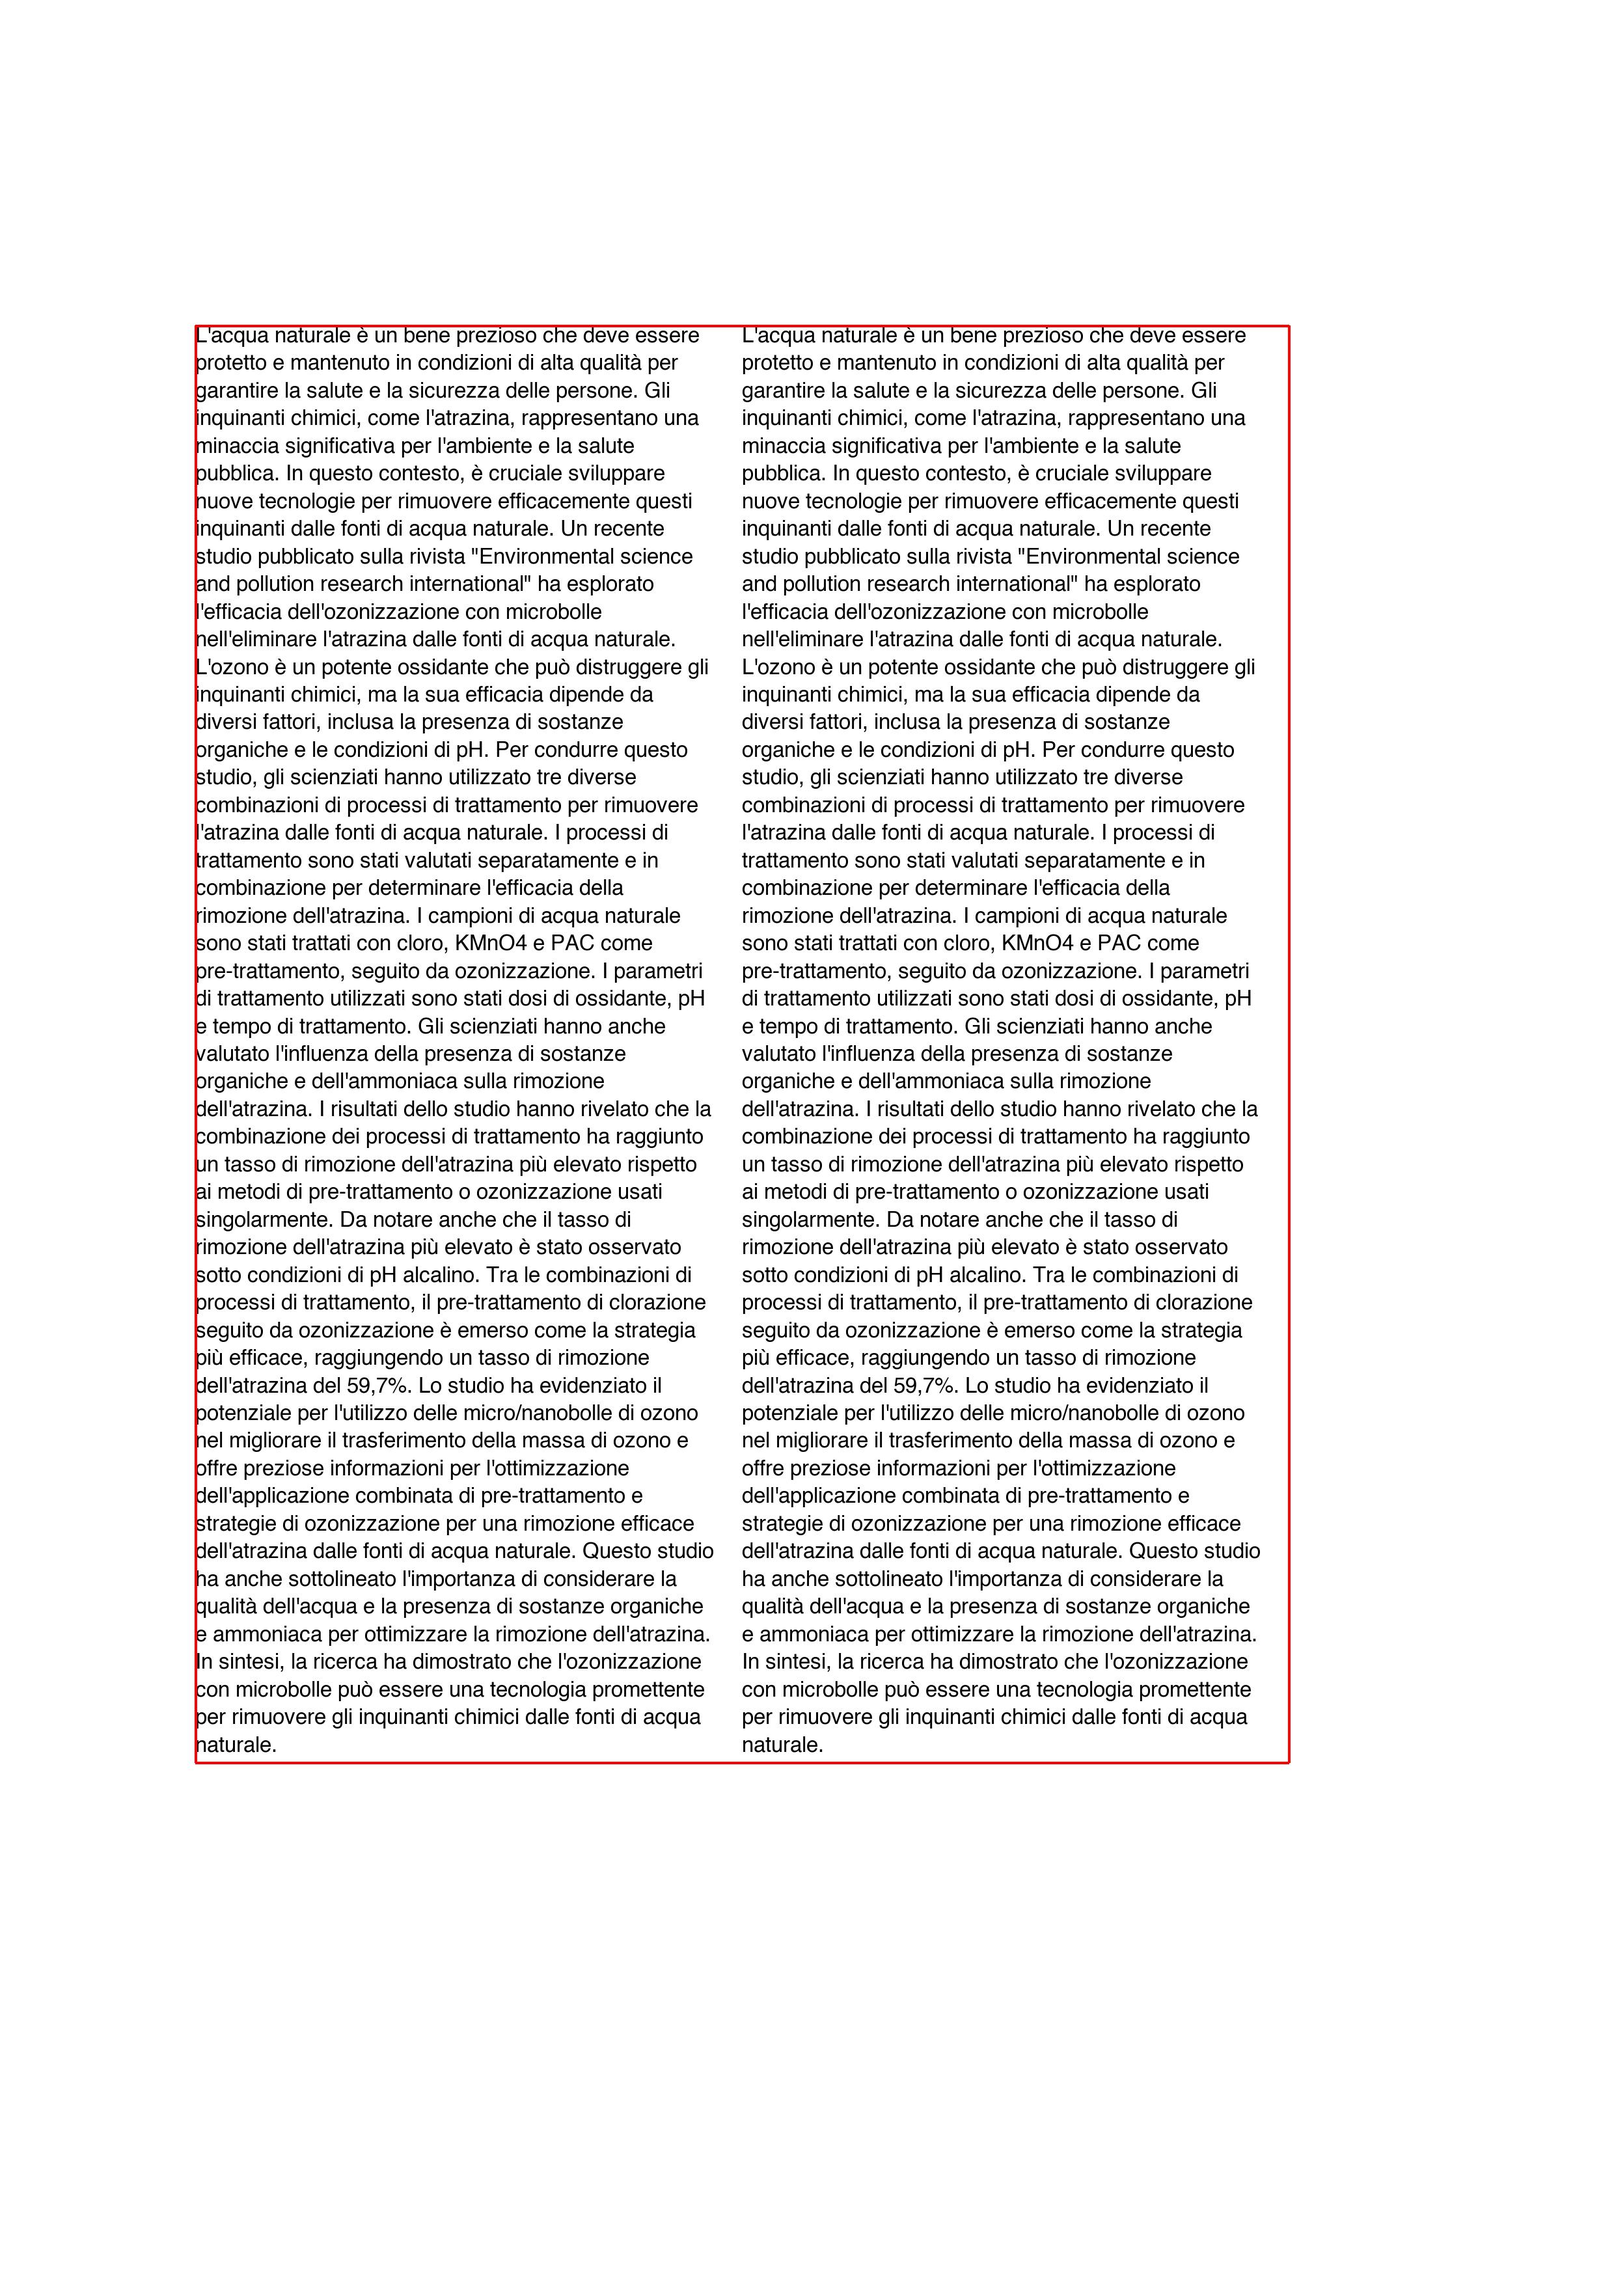
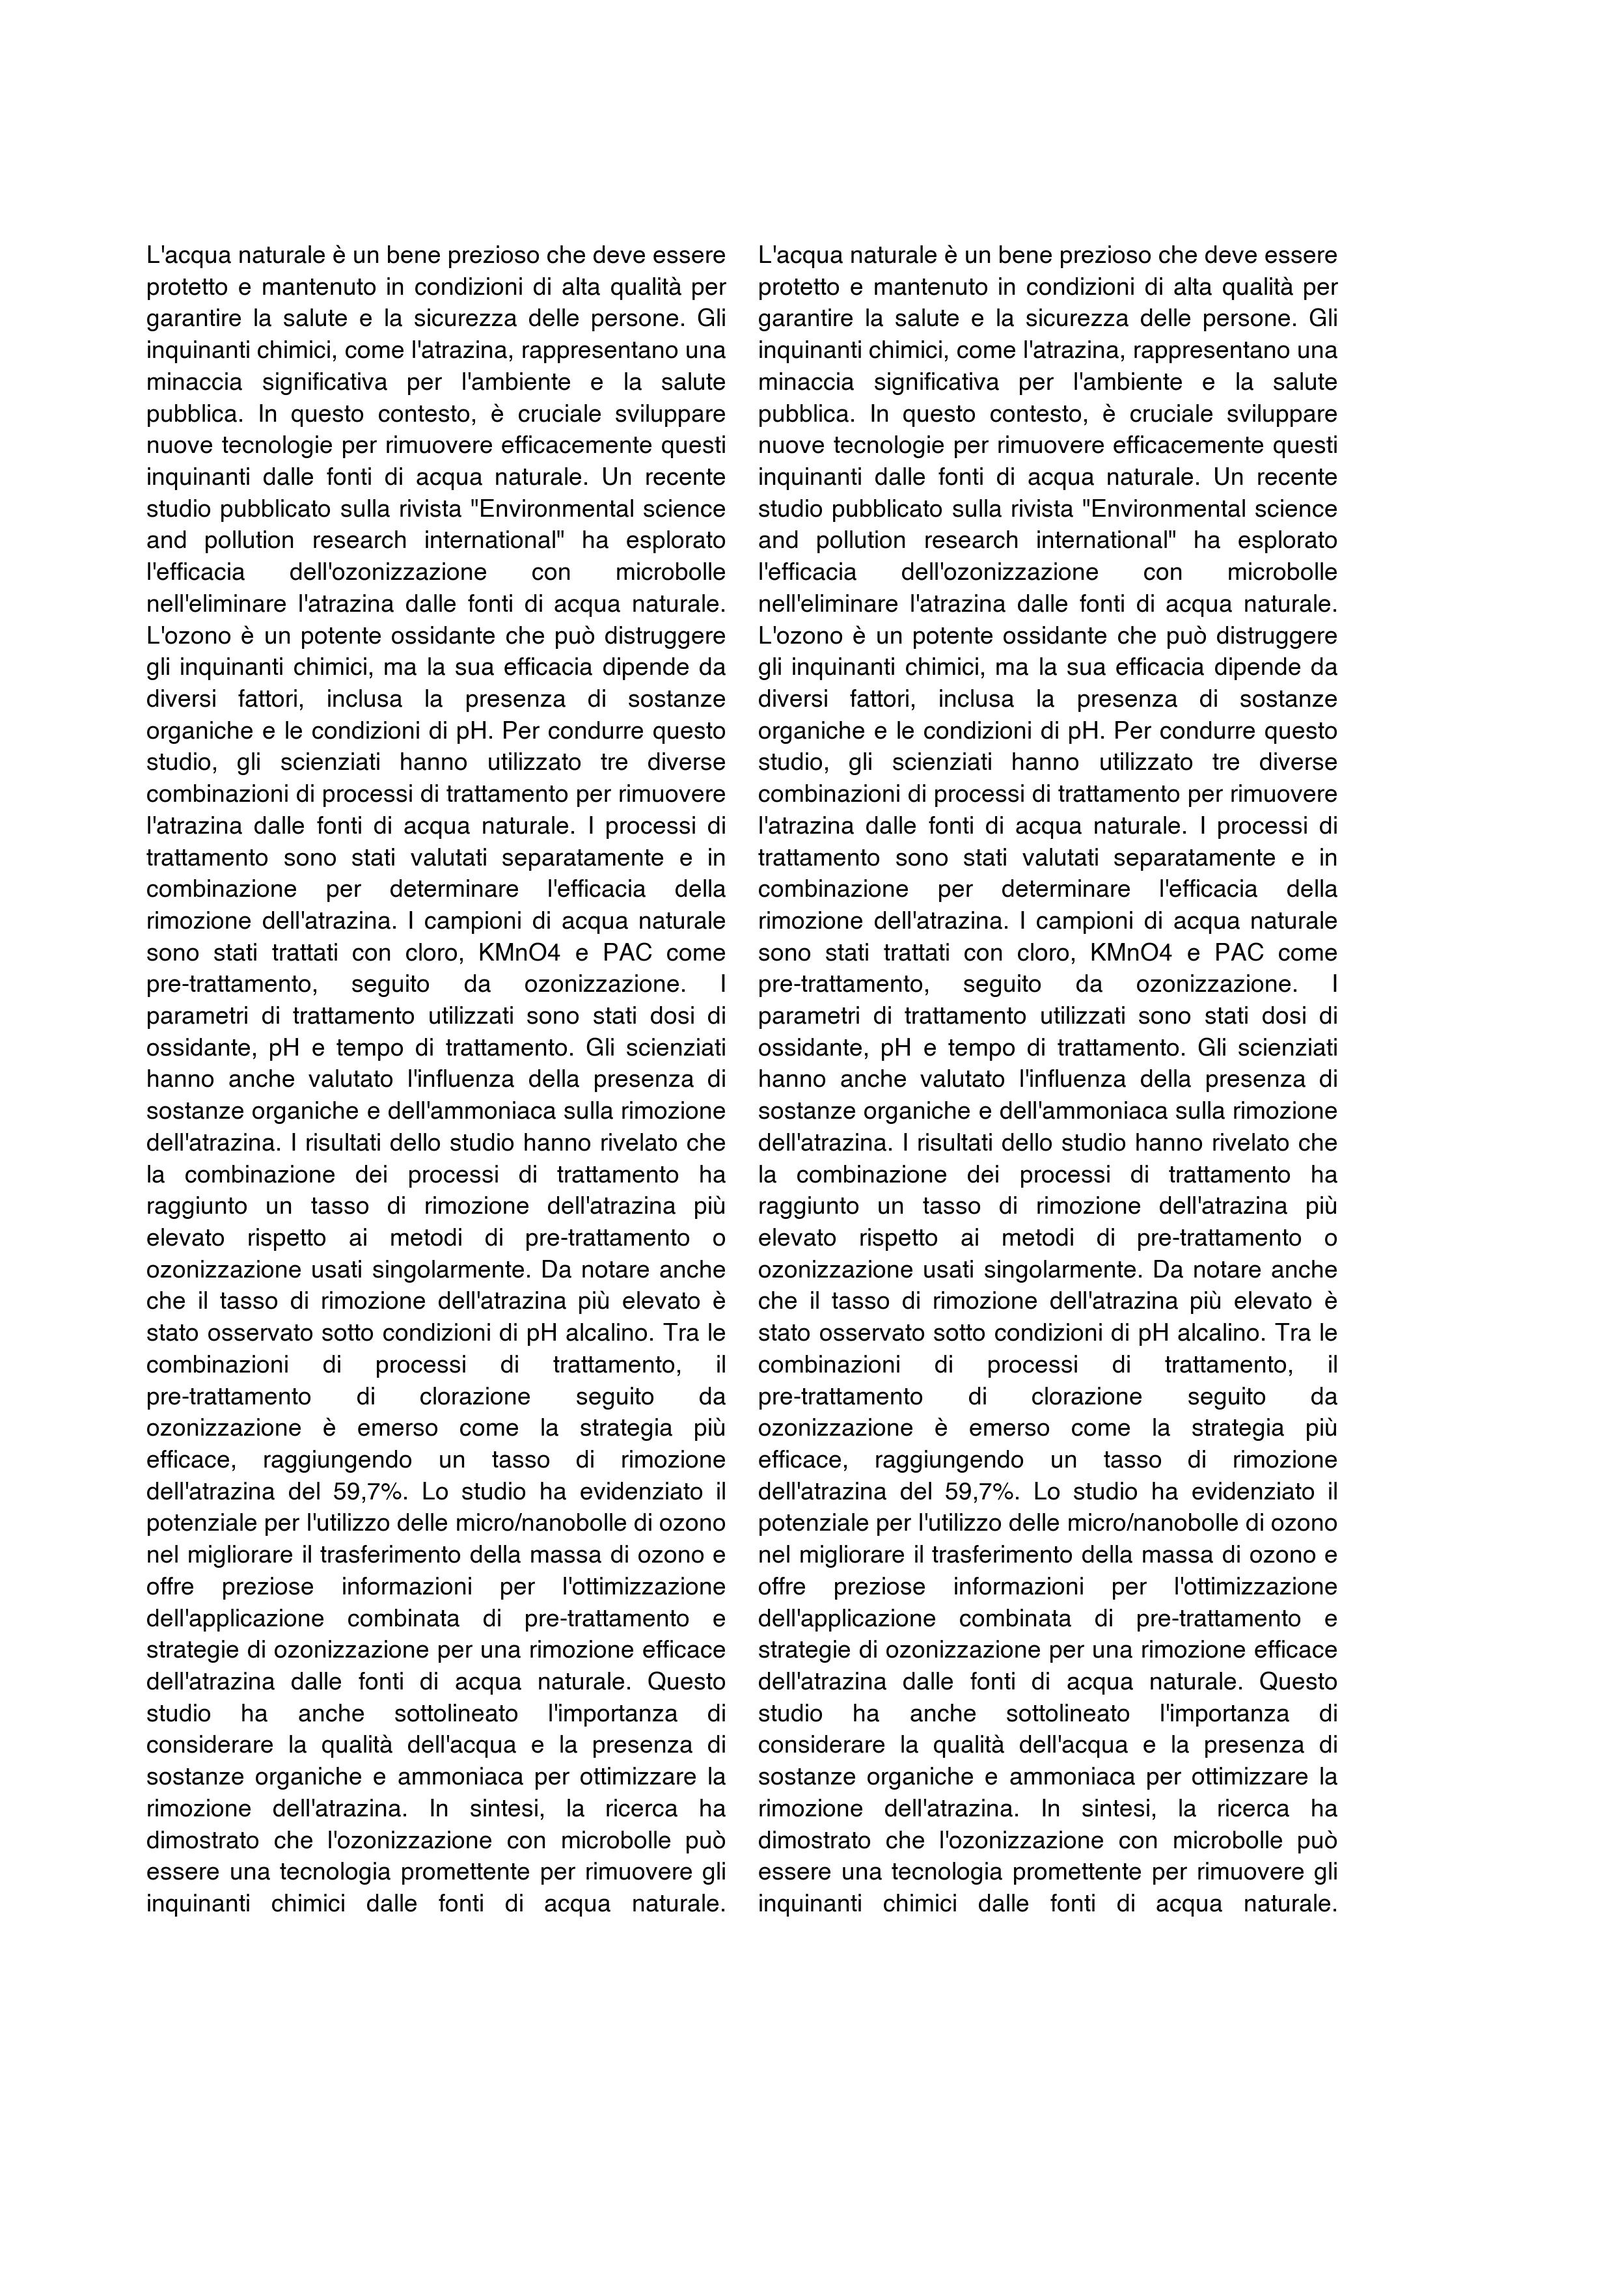
'

Changed region(s): [[0.0931, 0.0932, 0.8383, 0.8389]]

diff --git a/magazine-layout/main.py b/magazine-layout/main.py
@@ -6,10 +6,12 @@ fonts_folderpath = f'{vault_folderpath}/fonts'
 a4_w = 2480
 a4_h = 3508
 
-ml = 300
-mt = 500
-mr = 500
-mb = 800
+margin_mul = 0.75
+
+ml = 300*margin_mul
+mt = 500*margin_mul
+mr = 500*margin_mul
+mb = 800*margin_mul
 
 text_area_x1 = ml
 text_area_y1 = mt
@@ -47,6 +49,11 @@ if 0:
         draw.line((text_area_x1, text_area_y1 + row_h*i, text_area_x2, text_area_y1 + row_h*i), fill='#00ffff', width=4)
         draw.line((text_area_x1, text_area_y1 + row_h*i - line_h, text_area_x2, text_area_y1 + row_h*i - line_h), fill='#00ffff', width=4)
 
+    draw.line((text_area_x1, text_area_y1, text_area_x2, text_area_y1), fill='#ff0000', width=4)
+    draw.line((text_area_x1, text_area_y2, text_area_x2, text_area_y2), fill='#ff0000', width=4)
+    draw.line((text_area_x1, text_area_y1, text_area_x1, text_area_y2), fill='#ff0000', width=4)
+    draw.line((text_area_x2, text_area_y1, text_area_x2, text_area_y2), fill='#ff0000', width=4)
+
 with open('body-text.txt', encoding='utf-8') as f: body_text = f.read()
 body_text = body_text.strip().replace('\n', ' ').replace('  ', ' ')
 
@@ -66,21 +73,42 @@ line_x = text_area_x1
 line_y = text_area_y1
 i = 0
 for line in lines:
-    draw.text((line_x, line_y + font_size*i*line_spacing), line, '#000000', font=font)
+    # draw.text((line_x - line_h*2, line_y + font_size*i*line_spacing), str(i%line_num+1), '#000000', font=font)
+    
+    ## align-justify
+    word_x = text_area_x1
+    _, _, line_w, _ = font.getbbox(line)
+    space_left = col_w - line_h - line_w
+    words = line.split(' ')
+    word_num = len(words)
+    space_add = space_left / (word_num-1)
+    for word in words:
+        draw.text((word_x, line_y + font_size*i*line_spacing), word, '#000000', font=font)
+        _, _, word_w, _ = font.getbbox(word)
+        _, _, space_w, _ = font.getbbox(' ')
+        word_x += word_w + space_w + space_add
+
     i += 1
 
 line_x = text_area_x1 + col_w
 line_y = text_area_y1
 i = 0
 for line in lines:
-    draw.text((line_x, line_y + font_size*i*line_spacing), line, '#000000', font=font)
+    ## align-justify
+    word_x = text_area_x1 + col_w
+    _, _, line_w, _ = font.getbbox(line)
+    space_left = col_w - line_h - line_w
+    words = line.split(' ')
+    word_num = len(words)
+    space_add = space_left / (word_num-1)
+    for word in words:
+        draw.text((word_x, line_y + font_size*i*line_spacing), word, '#000000', font=font)
+        _, _, word_w, _ = font.getbbox(word)
+        _, _, space_w, _ = font.getbbox(' ')
+        word_x += word_w + space_w + space_add
+        
     i += 1
 
-
-draw.line((text_area_x1, text_area_y1, text_area_x2, text_area_y1), fill='#ff0000', width=4)
-draw.line((text_area_x1, text_area_y2, text_area_x2, text_area_y2), fill='#ff0000', width=4)
-draw.line((text_area_x1, text_area_y1, text_area_x1, text_area_y2), fill='#ff0000', width=4)
-draw.line((text_area_x2, text_area_y1, text_area_x2, text_area_y2), fill='#ff0000', width=4)
 
 img.save('output.jpg')
 img.show()
